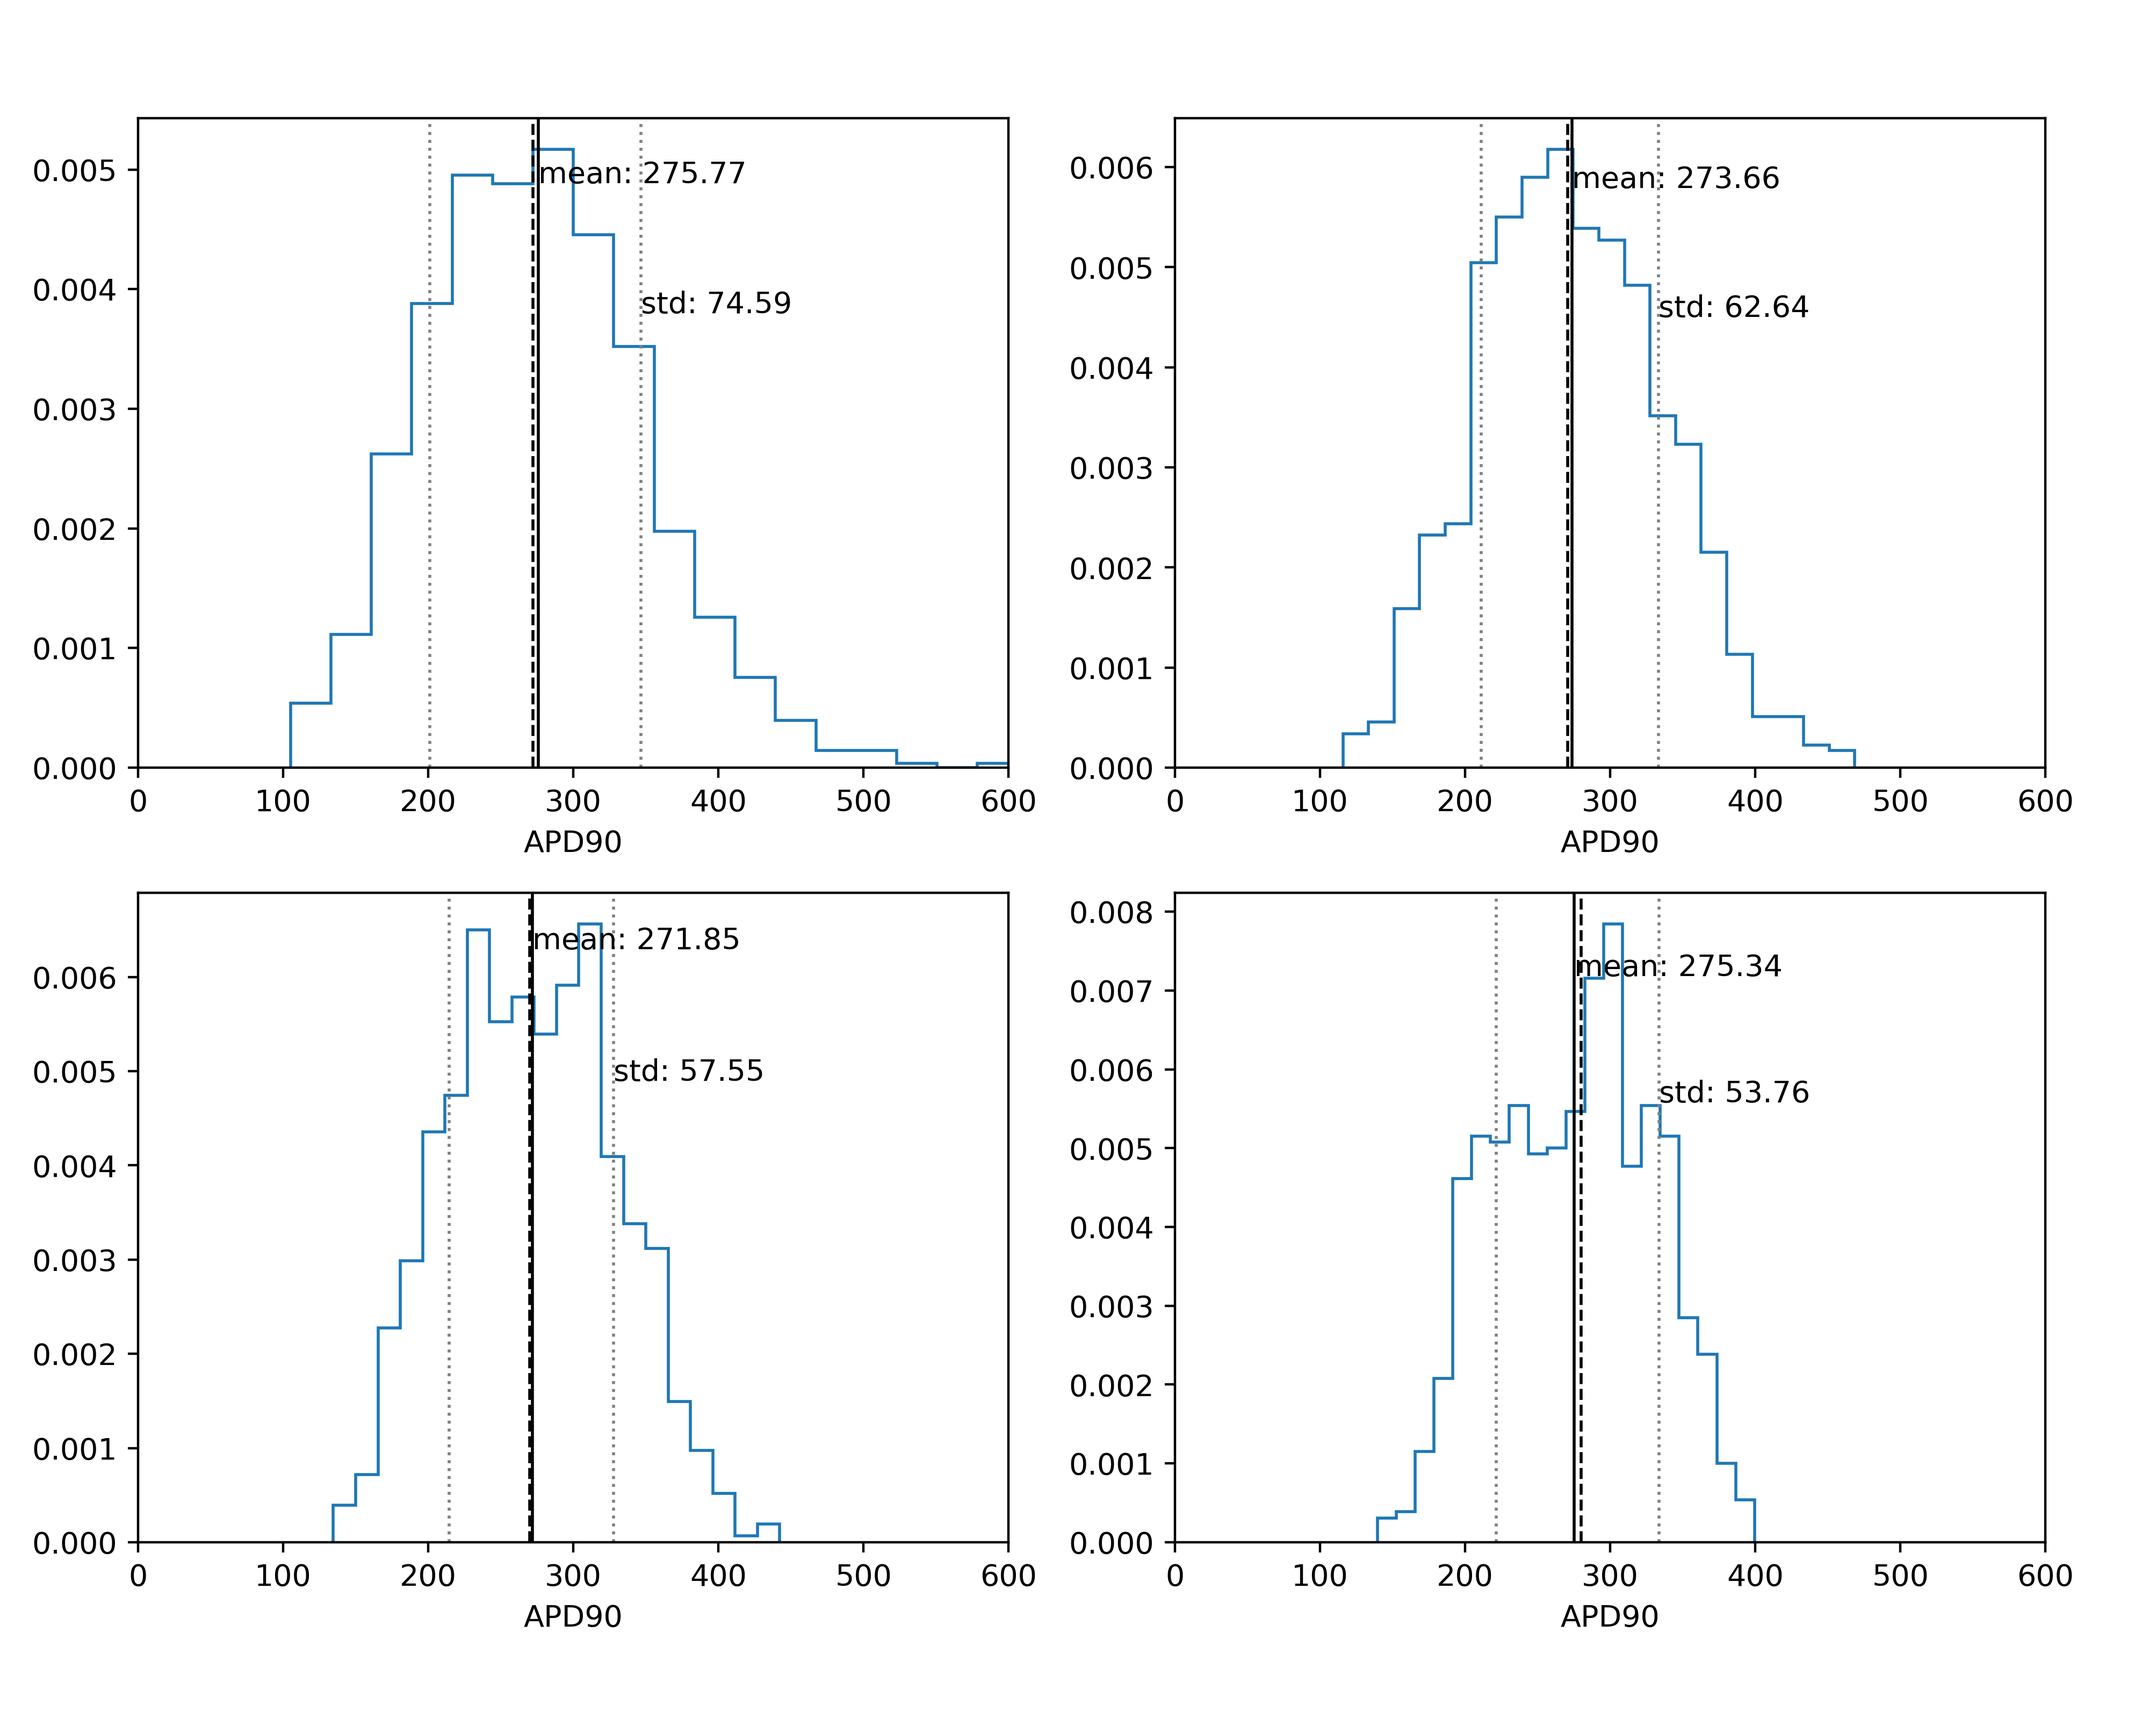
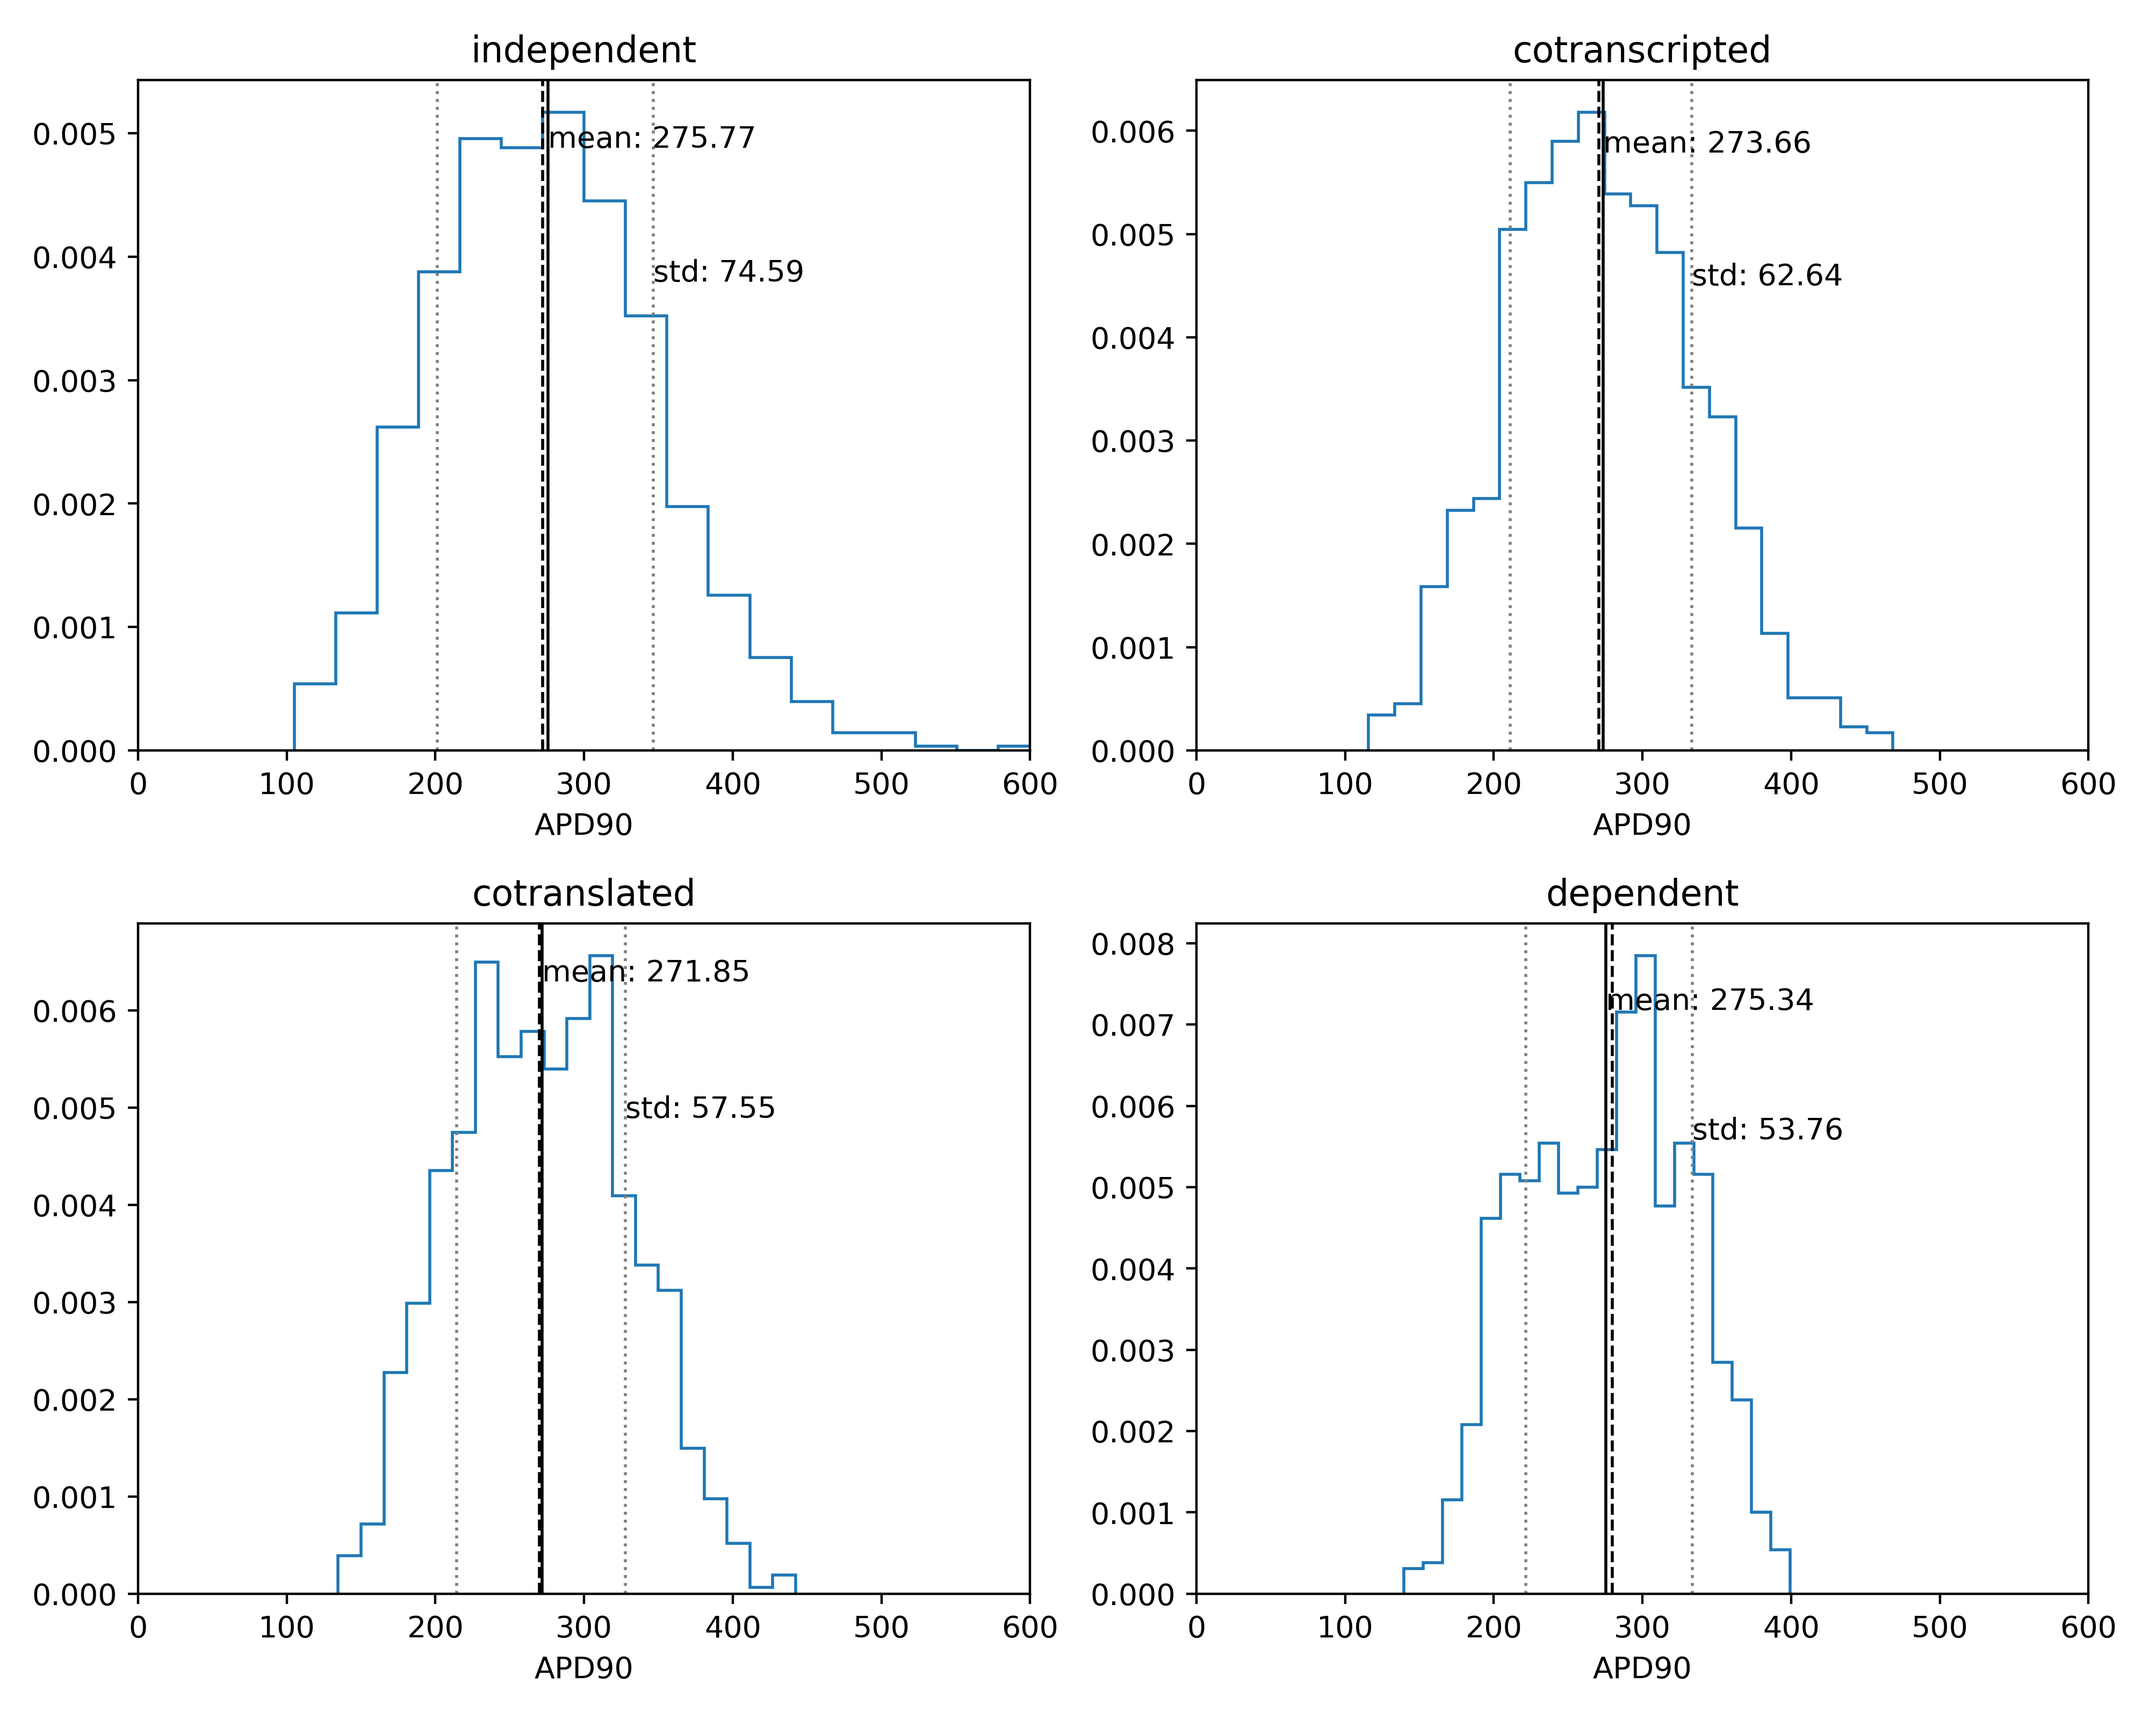
added labels to histograms

diff --git a/plot_simulation_outputs.py b/plot_simulation_outputs.py
@@ -24,6 +24,7 @@ if __name__ == '__main__':
     folderNames.append(expressions_to_vary[0] + '_' + expressions_to_vary[1] + '_cotranscripted_test')
     folderNames.append(expressions_to_vary[0] + '_' + expressions_to_vary[1] + '_cotranslated_test')
     folderNames.append(expressions_to_vary[0] + '_' + expressions_to_vary[1] + '_dependent_test')
+    names = ['independent', 'cotranscripted', 'cotranslated', 'dependent']
     # only plot the
     # create a figure for plotting APD90 only for each of the folders
     fig, axs = plt.subplots(2, 2, figsize=(10, 8))
@@ -136,7 +137,7 @@ if __name__ == '__main__':
         axs[iScenario].text(np.median(biomarkers['APD90']) + np.std(biomarkers['APD90']), ymax * 0.7,
                         'std: {:.2f}'.format(np.std(biomarkers['APD90'])))
         axs[iScenario].set_xlabel('APD90')
+        axs[iScenario].set_title(names[iScenario])
         axs[iScenario].set_xlim([0, 600])
-
-    fig.tight_layout(rect=[0, 0.03, 0.98, 0.95])
+    fig.tight_layout()
     fig.savefig(FigureFolderName + '/APD90_hists.png', dpi=400)
